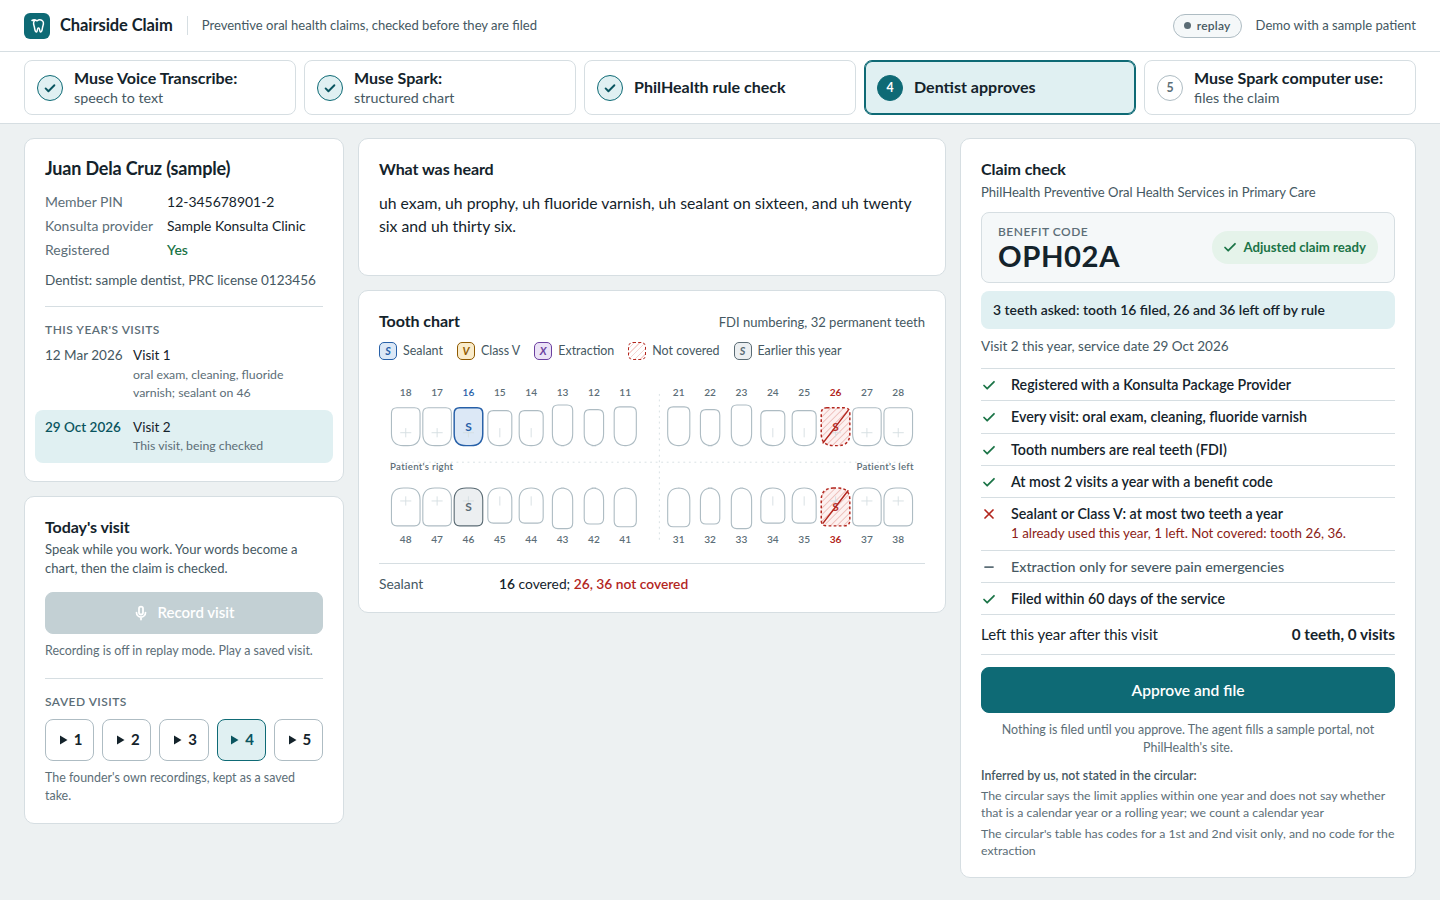
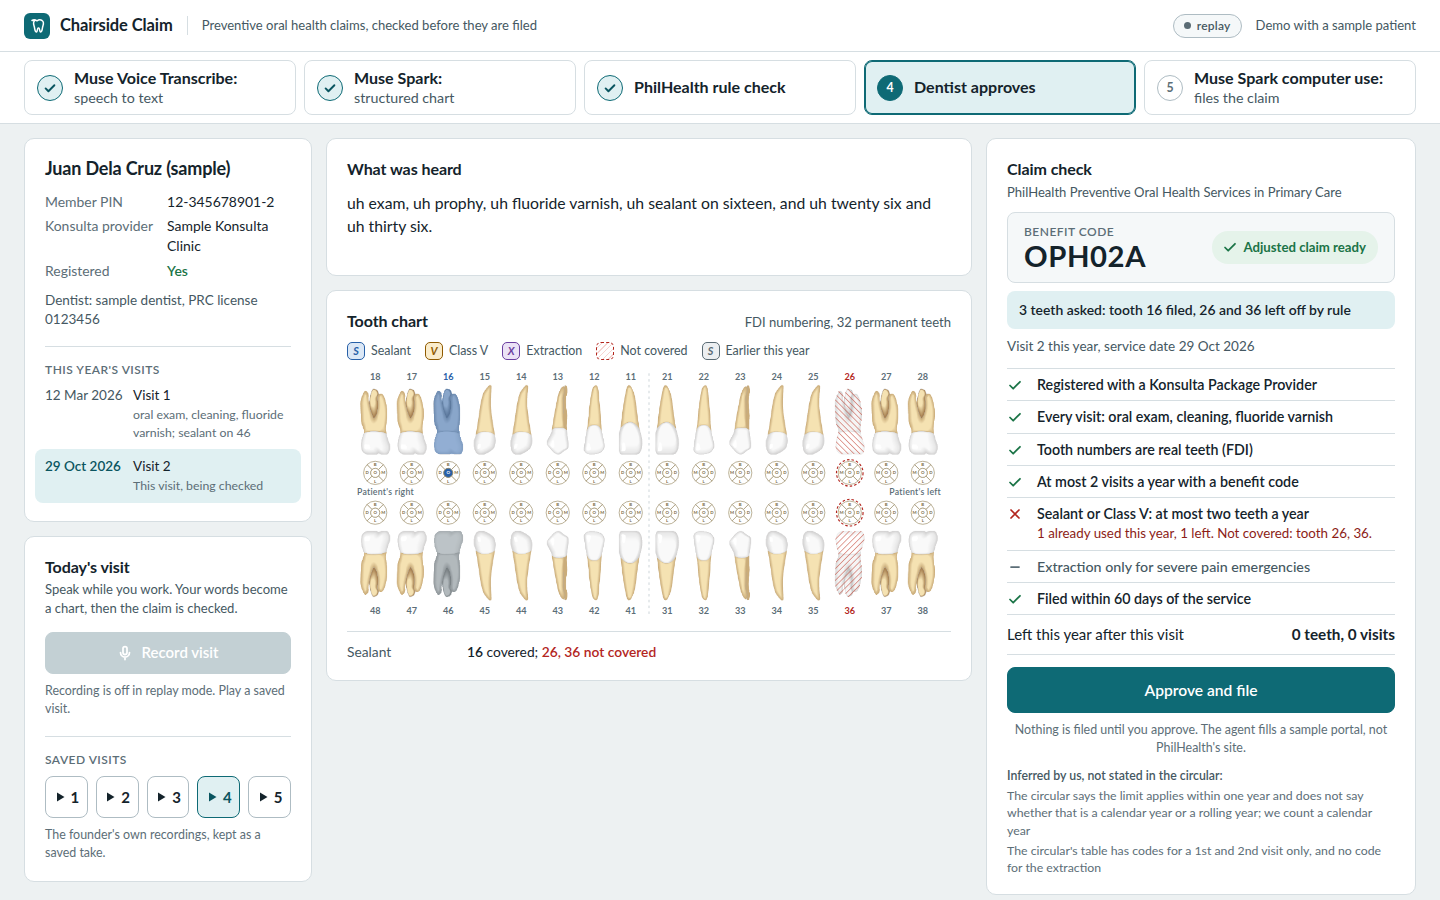
tooth chart: HeyDenta odontogram look with PDA surface circles
Real tooth pictures (the HeyDenta set, Aaron's call 2026-10-29 with the copyright risk flagged),
B/M/O/D/L surface circle under each tooth with mesial facing the midline, tints masked to the
tooth outline, not-covered teeth hatched over a faded tooth. Wider chart column at 1440.

diff --git a/app/static/index.html b/app/static/index.html
@@ -68,7 +68,7 @@ svg.ico { width: 16px; height: 16px; flex: none; fill: none; stroke: currentColo
 
 /* layout */
 .app { max-width: 1440px; margin: 0 auto; padding: 14px 24px 48px; display: grid; gap: 14px; align-items: start;
-  grid-template-columns: 320px minmax(0, 1fr) 456px; grid-template-areas: "a b c" "band band band"; }
+  grid-template-columns: 288px minmax(0, 1fr) 430px; grid-template-areas: "a b c" "band band band"; }
 .col { display: grid; gap: 14px; min-width: 0; }
 .col.a { grid-area: a; } .col.b { grid-area: b; } .col.c { grid-area: c; }
 #band { grid-area: band; }
@@ -148,18 +148,28 @@ svg.ico { width: 16px; height: 16px; flex: none; fill: none; stroke: currentColo
 .sw.e { background: var(--earlier-tint); border-color: var(--earlier); color: var(--earlier); border-style: solid; }
 .sw.n { border-color: var(--fail); border-style: dashed; background: repeating-linear-gradient(135deg, #fff 0 3px, #f6d4d1 3px 4px); }
 #chart-wrap { margin-top: 10px; display: flex; justify-content: center; }
-#chart { width: 100%; max-width: 640px; height: auto; display: block; }
-.tooth path.crown { fill: #fff; stroke: var(--line-strong); stroke-width: 1.2; transition: fill .28s ease-out, stroke .28s ease-out; }
-.tooth path.fissure { fill: none; stroke: var(--line); stroke-width: 1; transition: stroke .28s; }
-.tooth .tn { font: 600 11px var(--font); fill: var(--ink-3); text-anchor: middle; font-variant-numeric: tabular-nums; transition: fill .28s; }
-.tooth .glyph { font: 700 13px var(--font); text-anchor: middle; opacity: 0; transition: opacity .28s; }
-.tooth .strike { stroke: var(--fail); stroke-width: 1.6; stroke-linecap: round; opacity: 0; transition: opacity .28s; }
-.tooth.s-sealant path.crown { fill: var(--sealant-tint); stroke: var(--sealant); stroke-width: 1.6; } .tooth.s-sealant .glyph { fill: var(--sealant); opacity: 1; } .tooth.s-sealant .tn { fill: var(--sealant); }
-.tooth.s-class_v path.crown { fill: var(--classv-tint); stroke: var(--classv); stroke-width: 1.6; } .tooth.s-class_v .glyph { fill: var(--classv); opacity: 1; } .tooth.s-class_v .tn { fill: var(--classv); }
-.tooth.s-extraction path.crown { fill: var(--extraction-tint); stroke: var(--extraction); stroke-width: 1.6; } .tooth.s-extraction .glyph { fill: var(--extraction); opacity: 1; } .tooth.s-extraction .tn { fill: var(--extraction); }
-.tooth.earlier path.crown { fill: var(--earlier-tint); stroke: var(--earlier); } .tooth.earlier .glyph { fill: var(--earlier); opacity: 1; } .tooth.earlier .tn { fill: var(--earlier); }
-.tooth.refused path.crown { fill: url(#hatch); stroke: var(--fail); stroke-dasharray: 3 2.5; stroke-width: 1.6; }
-.tooth.refused .glyph { fill: var(--fail); opacity: .9; } .tooth.refused .strike { opacity: 1; } .tooth.refused .tn { fill: var(--fail); font-weight: 700; }
+#chart { width: 100%; max-width: 760px; height: auto; display: block; }
+.tooth .timg { transition: filter .28s; }
+.tooth .tint { fill: transparent; opacity: 0; transition: opacity .28s ease-out; }
+.tooth.s-sealant .tint { fill: var(--sealant); opacity: .5; }
+.tooth.s-class_v .tint { fill: var(--classv); opacity: .45; }
+.tooth.s-extraction .tint { fill: var(--extraction); opacity: .45; }
+.tooth.earlier .tint { fill: var(--earlier); opacity: .4; }
+.tooth.refused .tint { fill: url(#hatch); opacity: 1; }
+.tooth.refused .timg { opacity: .55; }
+.tooth.s-sealant .timg, .tooth.s-class_v .timg, .tooth.s-extraction .timg, .tooth.earlier .timg, .tooth.refused .timg { filter: grayscale(1) brightness(1.05); }
+.tooth .xx, .tooth .sx { stroke: var(--extraction); stroke-width: 2.2; stroke-linecap: round; fill: none; opacity: 0; transition: opacity .28s; }
+.tooth.s-extraction:not(.refused) .xx, .tooth.s-extraction:not(.refused) .sx { opacity: 1; }
+.tooth .sf { fill: #fff; stroke: #9a8a64; stroke-width: .8; transition: fill .28s; }
+.tooth .sl { font-family: var(--font); font-weight: 650; fill: #7a6a44; text-anchor: middle; dominant-baseline: central; pointer-events: none; transition: fill .28s; }
+.tooth.s-sealant:not(.refused) .sf.o { fill: var(--sealant); } .tooth.s-sealant:not(.refused) .sl.lo { fill: #fff; }
+.tooth.s-class_v:not(.refused) .sf.b { fill: var(--classv); } .tooth.s-class_v:not(.refused) .sl.lb { fill: #fff; }
+.tooth .ring { fill: none; stroke: var(--fail); stroke-width: 1.4; stroke-dasharray: 3 2.5; opacity: 0; transition: opacity .28s; }
+.tooth.refused .ring { opacity: 1; }
+.tooth .tn { font: 700 11px var(--font); fill: var(--ink-3); text-anchor: middle; font-variant-numeric: tabular-nums; transition: fill .28s; }
+.tooth.s-sealant .tn { fill: var(--sealant); } .tooth.s-class_v .tn { fill: var(--classv); } .tooth.s-extraction .tn { fill: var(--extraction); } .tooth.earlier .tn { fill: var(--earlier); }
+.tooth.refused .tn { fill: var(--fail); }
+.midline { stroke: #c3ccd1; stroke-dasharray: 3 4; }
 .zone { font: 600 10.5px var(--font); fill: var(--ink-3); letter-spacing: .03em; }
 .tlist { margin-top: 12px; border-top: 1px solid var(--line); padding-top: 10px; display: grid; gap: 6px; font-size: .92rem; }
 .tlist .none { color: var(--ink-3); }
@@ -417,9 +427,10 @@ function renderPatient() {
 /* ---------- tooth chart ---------- */
 const UPPER = [18, 17, 16, 15, 14, 13, 12, 11, 21, 22, 23, 24, 25, 26, 27, 28];
 const LOWER = [48, 47, 46, 45, 44, 43, 42, 41, 31, 32, 33, 34, 35, 36, 37, 38];
-const SLOT = 46;
-const DIM = (n) => { const t = n % 10; return t >= 6 ? [31, 41, "molar"] : t >= 4 ? [26, 38, "premolar"] : t === 3 ? [22, 44, "canine"] : t === 1 ? [24, 42, "incisor"] : [21, 39, "incisor"]; };
-const rr = (x, y, w, h, rt, rb) => `M${x + rt},${y}H${x + w - rt}Q${x + w},${y} ${x + w},${y + rt}V${y + h - rb}Q${x + w},${y + h} ${x + w - rb},${y + h}H${x + rb}Q${x},${y + h} ${x},${y + h - rb}V${y + rt}Q${x},${y} ${x + rt},${y}Z`;
+/* Tooth pictures: the HeyDenta odontogram set (Aaron's call 2026-10-29: reuse them; the copyright risk was flagged and accepted).
+   Natural orientation is crown up (lower arch); the upper arch flips so every crown faces its surface circle. */
+const TTYPE = (n) => ({ 1: "central", 2: "lateral", 3: "canine", 4: "premolar", 5: "premolar", 6: "molar", 7: "molar", 8: "molar" })[n % 10];
+const TSIZE = { central: [43, 127], lateral: [38, 125], canine: [37, 119], premolar: [35, 110], molar: [51, 113] };
 let marks = {};   /* tooth -> { svc: [..], refused: bool, earlier: [..] } */
 let lit = true;
 let narrow = false;
@@ -427,49 +438,61 @@ let narrow = false;
 function layout() {
   const cells = [];
   if (!narrow) {
-    const x = (i) => 12 + i * 34 + (i >= 8 ? 24 : 0) + 17;
-    UPPER.forEach((n, i) => cells.push({ n, cx: x(i), top: 36, arch: "u", numY: 28 }));
-    LOWER.forEach((n, i) => cells.push({ n, cx: x(i), top: 128, arch: "l", numY: 128 + SLOT + 14 }));
-    return { w: 592, h: 196, cells, zones: [{ t: "Patient's right", x: 12, y: 108, a: "start" }, { t: "Patient's left", x: 580, y: 108, a: "end" }], mid: true };
+    const x = (i) => 12 + i * 44 + 22;
+    UPPER.forEach((n, i) => cells.push({ n, cx: x(i), arch: "u", numY: 12, box: [18, 84], cy: 124 }));
+    LOWER.forEach((n, i) => cells.push({ n, cx: x(i), arch: "l", numY: 294, box: [194, 84], cy: 172 }));
+    return { w: 728, h: 300, cells, zones: [{ t: "Patient's right", x: 12, y: 151, a: "start" }, { t: "Patient's left", x: 716, y: 151, a: "end" }], mid: 364, r: 14, bw: 36 };
   }
   const rows = [["Upper right", [18, 17, 16, 15, 14, 13, 12, 11], "u"], ["Upper left", [21, 22, 23, 24, 25, 26, 27, 28], "u"],
                 ["Lower right", [48, 47, 46, 45, 44, 43, 42, 41], "l"], ["Lower left", [31, 32, 33, 34, 35, 36, 37, 38], "l"]];
   const zones = [];
   rows.forEach(([label, ns, arch], r) => {
-    const y0 = r * 84; zones.push({ t: label, x: 12, y: y0 + 11, a: "start" });
-    ns.forEach((n, i) => cells.push({ n, cx: 12 + i * 38 + 19, top: y0 + 18, arch, numY: y0 + 18 + SLOT + 13 }));
+    const y0 = r * 152; zones.push({ t: label, x: 8, y: y0 + 11, a: "start" });
+    ns.forEach((n, i) => {
+      const cx = 8 + i * 40 + 20;
+      if (arch === "u") cells.push({ n, cx, arch, numY: y0 + 28, box: [y0 + 34, 70], cy: y0 + 124 });
+      else cells.push({ n, cx, arch, numY: y0 + 144, box: [y0 + 56, 70], cy: y0 + 38 });
+    });
   });
-  return { w: 328, h: 332, cells, zones, mid: false };
+  return { w: 336, h: 606, cells, zones, mid: null, r: 12.5, bw: 30 };
 }
 
-function toothSVG(c) {
-  const [w, h, type] = DIM(c.n);
-  const x = c.cx - w / 2, y = c.arch === "u" ? c.top + SLOT - h : c.top;
-  const d = c.arch === "u" ? rr(x, y, w, h, 6, 13) : rr(x, y, w, h, 13, 6);
-  const occ = c.arch === "u" ? y + h - 14 : y + 14;
-  let fiss = "";
-  if (type === "molar") fiss = `M${c.cx - 6},${occ}H${c.cx + 6}M${c.cx},${occ - 5}V${occ + 5}`;
-  else if (type === "premolar") fiss = `M${c.cx},${occ - 5}V${occ + 5}`;
+function toothSVG(c, L) {
+  const t = TTYPE(c.n), [iw, ih] = TSIZE[t], [by, bh] = c.box, k = Math.min(L.bw / iw, bh / ih), w = iw * k, h = ih * k;
+  const x = c.cx - w / 2, y = by, src = `/static/teeth/${t}.png`;
+  const flip = c.arch === "u" ? ` transform="translate(0,${2 * by + bh}) scale(1,-1)"` : "";
   const m = marks[c.n] || {};
   const cls = ["tooth"]; (m.svc || []).forEach((s, i) => { if (i === 0) cls.push("s-" + s); });
   if (m.earlier && !m.svc) cls.push("earlier");
   if (m.refused) cls.push("refused");
-  const glyph = (m.svc || m.earlier || []).map((s) => SVC[s].key).join("") || "";
   const ttl = [m.svc ? (m.refused ? "Not covered: " : "") + list(m.svc.map((s) => SVC[s].name)) : "", m.earlier ? "Earlier this year: " + list(m.earlier.map((s) => SVC[s].name.toLowerCase())) : ""].filter(Boolean).join(". ");
+  /* PDA surface circle: B on top, L below, O in the centre, mesial (M) faces the midline */
+  const R = L.r, r = R * .39, cx = c.cx, cy = c.cy, mr = Math.floor(c.n / 10) % 3 === 1, PI = Math.PI;
+  const P = (a, rad) => [cx + rad * Math.cos(a), cy + rad * Math.sin(a)];
+  const sec = (a0, a1, cl) => { const [x0, y0] = P(a0, R), [x1, y1] = P(a1, R), [x2, y2] = P(a1, r), [x3, y3] = P(a0, r);
+    return `<path class="sf ${cl}" d="M${x0},${y0}A${R},${R} 0 0 1 ${x1},${y1}L${x2},${y2}A${r},${r} 0 0 0 ${x3},${y3}Z"/>`; };
+  const fs = (R * .38).toFixed(1), off = R * .7, lab = (lx, ly, txt, cl) => `<text class="sl ${cl}" x="${lx}" y="${ly}" font-size="${fs}">${txt}</text>`;
+  const d = R * .78;
   return `<g class="${cls.join(" ")}" data-n="${c.n}"><title>Tooth ${c.n}${ttl ? ". " + ttl : ""}</title>
-    <path class="crown" d="${d}"/>${fiss ? `<path class="fissure" d="${fiss}"/>` : ""}
-    <text class="glyph" x="${c.cx}" y="${y + h / 2 + 4.5}">${glyph}</text>
-    <line class="strike" x1="${x + 2}" y1="${y + h - 3}" x2="${x + w - 2}" y2="${y + 3}"/>
+    <g${flip}><mask id="tm-${c.n}" maskUnits="userSpaceOnUse" x="${x}" y="${y}" width="${w}" height="${h}" style="mask-type:alpha"><image href="${src}" x="${x}" y="${y}" width="${w}" height="${h}" preserveAspectRatio="none"/></mask>
+      <image class="timg" href="${src}" x="${x}" y="${y}" width="${w}" height="${h}" preserveAspectRatio="none"/>
+      <rect class="tint" x="${x}" y="${y}" width="${w}" height="${h}" mask="url(#tm-${c.n})"/>
+      <path class="xx" d="M${x + 2},${y + 4}L${x + w - 2},${y + h - 4}M${x + w - 2},${y + 4}L${x + 2},${y + h - 4}"/></g>
+    ${sec(-3 * PI / 4, -PI / 4, "b")}${sec(-PI / 4, PI / 4, mr ? "m" : "d")}${sec(PI / 4, 3 * PI / 4, "l")}${sec(3 * PI / 4, 5 * PI / 4, mr ? "d" : "m")}
+    <circle class="sf o" cx="${cx}" cy="${cy}" r="${r}"/>
+    ${lab(cx, cy - off, "B", "lb")}${lab(cx, cy + off, "L", "")}${lab(cx, cy, "O", "lo")}${lab(cx + (mr ? off : -off), cy, "M", "")}${lab(cx + (mr ? -off : off), cy, "D", "")}
+    <circle class="ring" cx="${cx}" cy="${cy}" r="${R + 2}"/>
+    <path class="sx" d="M${cx - d},${cy - d}L${cx + d},${cy + d}M${cx + d},${cy - d}L${cx - d},${cy + d}"/>
     <text class="tn" x="${c.cx}" y="${c.numY}">${c.n}</text></g>`;
 }
 
 function renderChart() {
   const L = layout(), svg = $("#chart");
-  svg.setAttribute("viewBox", `0 0 ${L.w} ${L.h}`); svg.style.maxWidth = narrow ? "420px" : "640px";
-  svg.innerHTML = `<defs><pattern id="hatch" width="5" height="5" patternUnits="userSpaceOnUse" patternTransform="rotate(45)"><rect width="5" height="5" fill="#fdf1f0"/><line x1="0" y1="0" x2="0" y2="5" stroke="#e7aaa5" stroke-width="1.4"/></pattern></defs>`
-    + (L.mid ? `<line x1="12" y1="100" x2="580" y2="100" stroke="#d6dee2" stroke-dasharray="2 4"/><line x1="304" y1="26" x2="304" y2="${L.h - 8}" stroke="#d6dee2" stroke-dasharray="2 4"/>` : "")
+  svg.setAttribute("viewBox", `0 0 ${L.w} ${L.h}`); svg.style.maxWidth = narrow ? "420px" : "760px";
+  svg.innerHTML = `<defs><pattern id="hatch" width="5" height="5" patternUnits="userSpaceOnUse" patternTransform="rotate(45)"><line x1="0" y1="0" x2="0" y2="5" stroke="#c0392b" stroke-width="1.5" stroke-opacity=".75"/></pattern></defs>`
+    + (L.mid ? `<line class="midline" x1="${L.mid}" y1="4" x2="${L.mid}" y2="${L.h - 4}"/>` : "")
     + L.zones.map((z) => `<text class="zone" x="${z.x}" y="${z.y}" text-anchor="${z.a}">${z.t}</text>`).join("")
-    + L.cells.map(toothSVG).join("");
+    + L.cells.map((c) => toothSVG(c, L)).join("");
 }
 
 function buildMarks(d) {

diff --git a/app/main.py b/app/main.py
@@ -5,6 +5,7 @@ import json, os, queue, tempfile, threading
 from datetime import date
 from fastapi import FastAPI, HTTPException, Request
 from fastapi.responses import HTMLResponse, StreamingResponse
+from fastapi.staticfiles import StaticFiles
 from starlette.concurrency import run_in_threadpool
 from app import filer, meta, replay, rules
 
@@ -14,6 +15,7 @@ R = rules.load()
 MAX_AUDIO, MAX_TEXT = 10_000_000, 4000
 FILING = threading.Lock()   # one filing at a time: it drives one browser
 app = FastAPI(title="Chairside claim (demo)", docs_url=None, redoc_url=None)
+app.mount("/static", StaticFiles(directory=os.path.join(os.path.dirname(os.path.abspath(__file__)), "static")), name="static")
 
 
 def patient():
